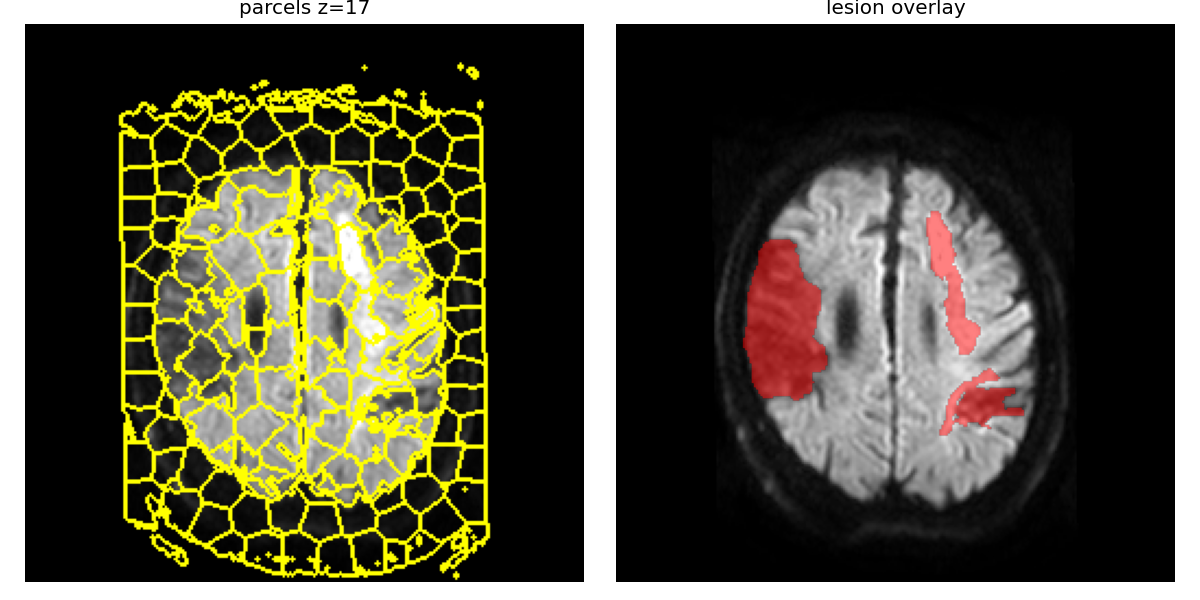
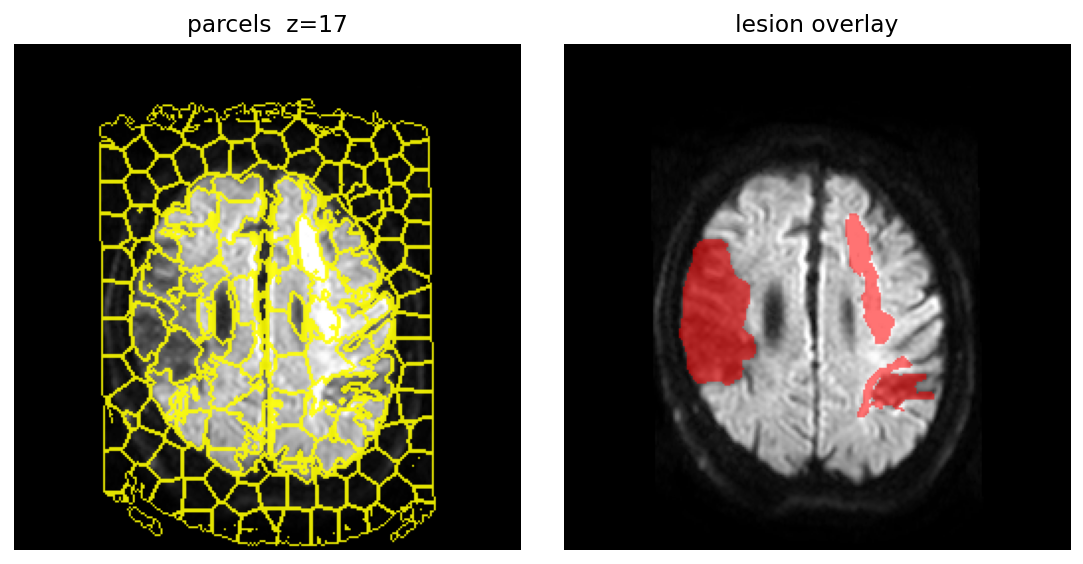
Apply largest-CC brain mask in TrainableLesionEvo (K=288 -> 285)
Without a connectivity filter, the intensity threshold leaks eye globes
and scalp rim into the brain mask on sub-1 (128 disconnected components),
so SLIC tiles each one with micro-parcels that never attach to the
adjacency graph. Move the one-liner threshold into parcels.brain_mask,
take the largest connected component via scipy.ndimage.label, and wire
it into TrainableLesionEvo. See WRITEUP.md section 2.1.

diff --git a/deepxube_hw4/parcels.py b/deepxube_hw4/parcels.py
@@ -6,6 +6,7 @@ from typing import Tuple
 
 import numpy as np
 from numpy.typing import NDArray
+from scipy.ndimage import label
 from skimage.segmentation import slic
 
 
@@ -29,6 +30,17 @@ class Parcellation:
         hits = np.bincount(flat_lab, weights=flat_msk.astype(np.float32),
                            minlength=self.n_parcels + 1)[1:]
         return np.where(sizes > 0, hits / np.maximum(sizes, 1), 0.0)
+
+
+def brain_mask(dwi: NDArray, percentile: float = 40.0) -> NDArray:
+    """Intensity threshold + largest connected component, to drop non-brain islands."""
+    raw = dwi > np.percentile(dwi, percentile)
+    lab, n = label(raw)
+    if n == 0:
+        return raw
+    sizes = np.bincount(lab.ravel())
+    sizes[0] = 0
+    return lab == int(sizes.argmax())
 
 
 def parcellate_dwi(

diff --git a/deepxube_hw4/train_evolution.py b/deepxube_hw4/train_evolution.py
@@ -24,7 +24,7 @@ from deepxube_hw4.evolution import (
     EXPAND, SHRINK, STOP,
     EvolutionAction, EvolutionGoal, EvolutionState, LesionEvolutionDomain,
 )
-from deepxube_hw4.parcels import parcellate_dwi
+from deepxube_hw4.parcels import brain_mask, parcellate_dwi
 from deepxube_hw4.soop import load_subject
 
 
@@ -36,7 +36,7 @@ class TrainableLesionEvo(
 ):
     def __init__(self, subject_id: str = "sub-1", n_parcels: int = 300, coverage: float = 0.3):
         subj = load_subject(subject_id)
-        brain = subj.dwi > np.percentile(subj.dwi, 40)
+        brain = brain_mask(subj.dwi)
         parc = parcellate_dwi(subj.dwi, brain, n_parcels=n_parcels)
         LesionEvolutionDomain.__init__(self, subj, parc, coverage=coverage)
         self.subject_id: str = subject_id
